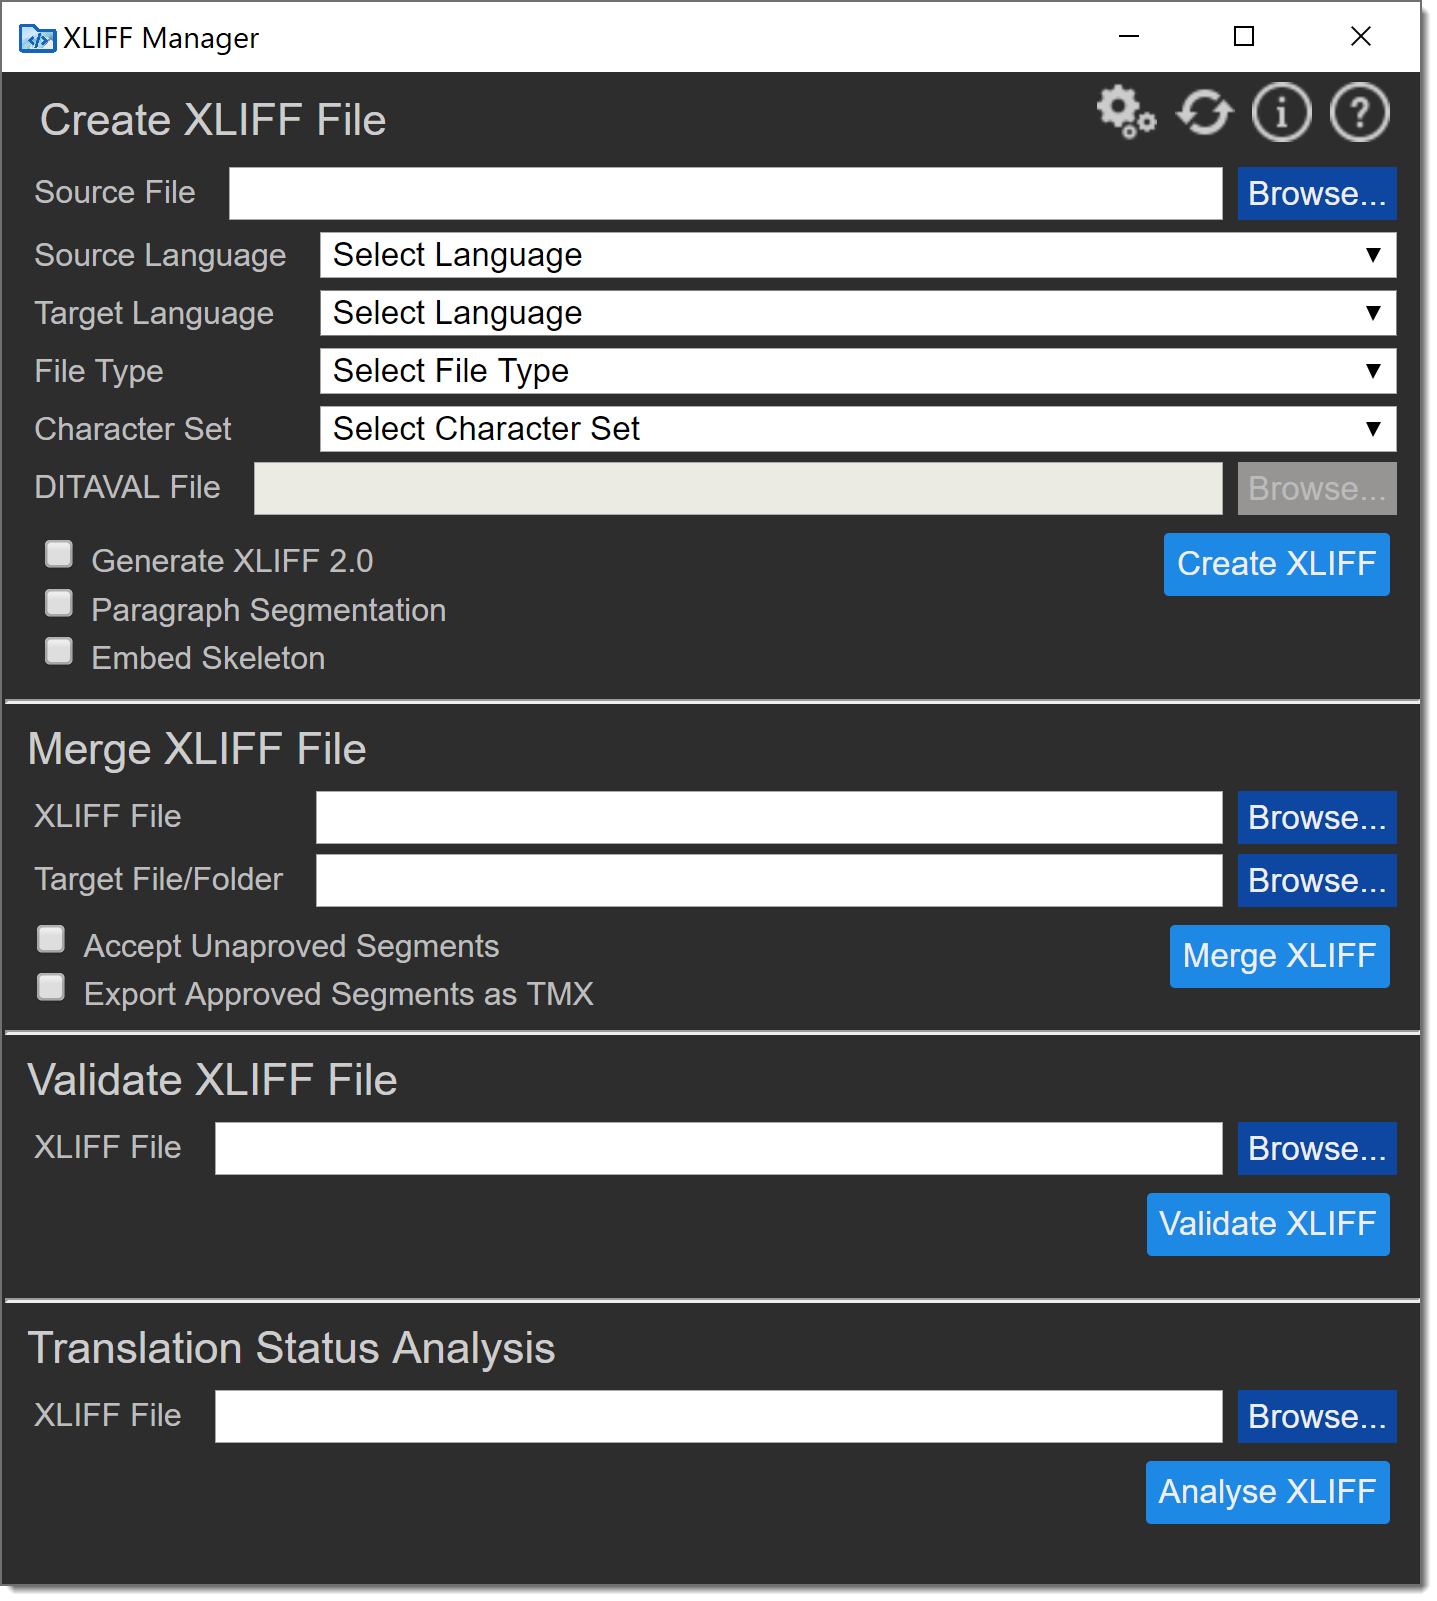
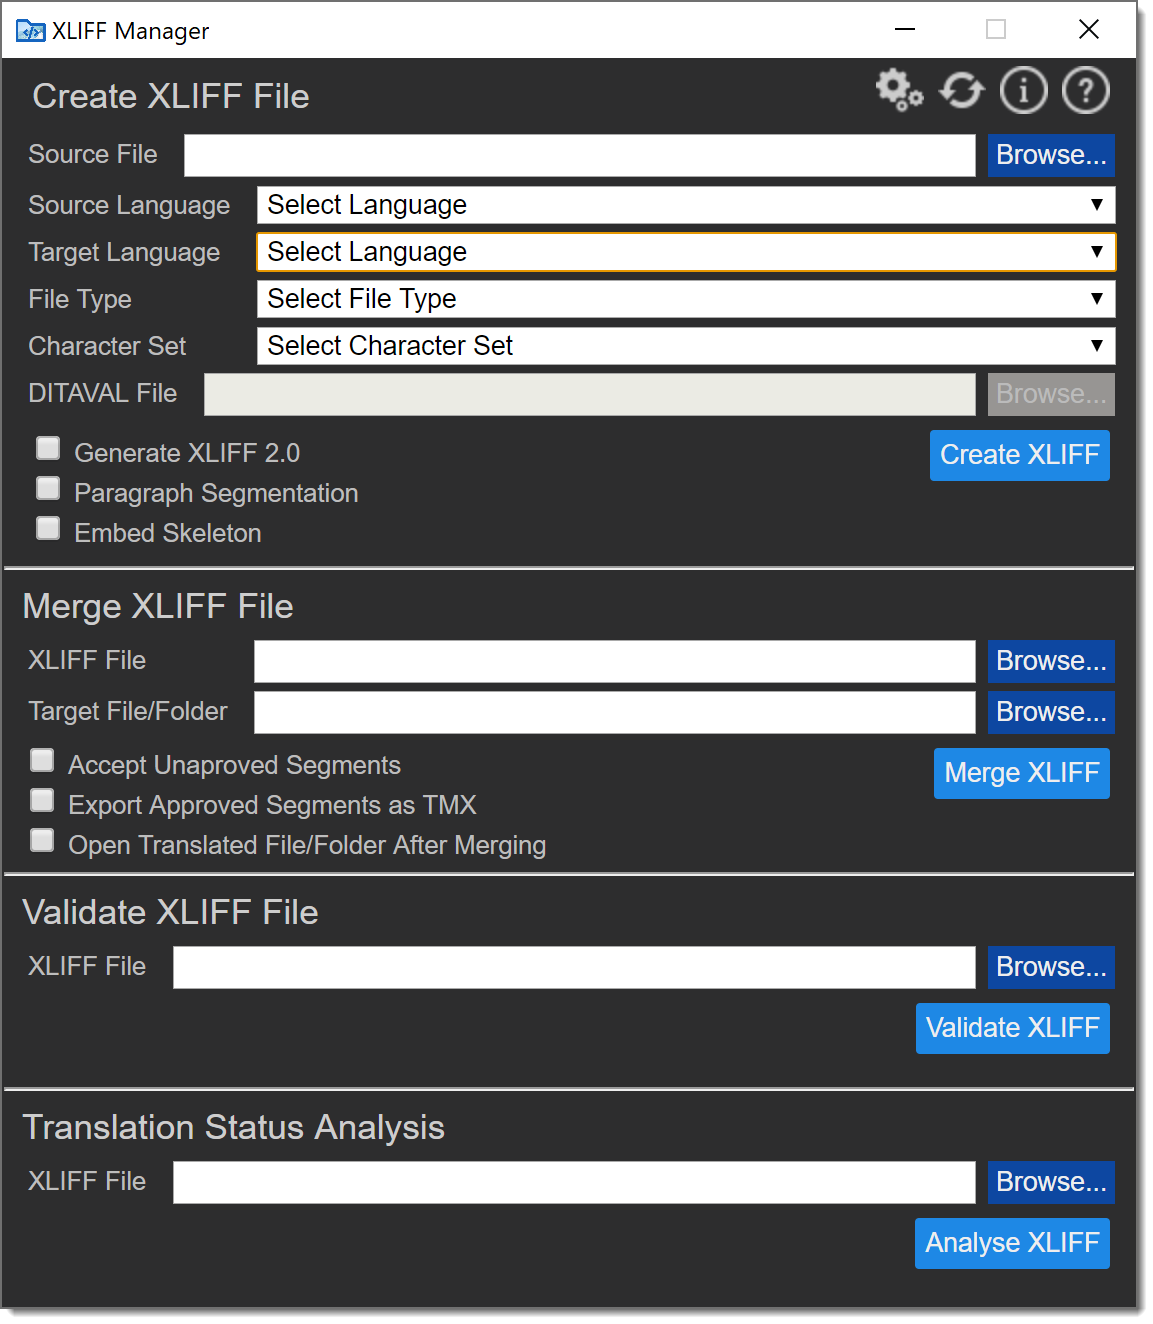
Option to open translated files

Changed region(s): [[0.0, 0.0, 0.9991, 1.0], [0.0, 0.0, 0.1873, 0.0619]]

diff --git a/main.js b/main.js
@@ -8,9 +8,9 @@
  *
  * Contributors:
  *     Maxprograms - initial API and implementation
- *******************************************************************************/ 
-const {ipcRenderer, shell} = require('electron');
-const {dialog} = require('electron').remote;
+ *******************************************************************************/
+const { ipcRenderer, shell } = require('electron');
+const { dialog } = require('electron').remote;
 
 document.getElementById('browseSource').addEventListener('click', () => {
     ipcRenderer.send('select-source-file');
@@ -27,25 +27,25 @@ document.getElementById('browseTarget').addEventListener('click', () => {
 document.getElementById('createButton').addEventListener('click', () => {
     var sourceFile = document.getElementById('sourceFile').value;
     if (!sourceFile) {
-        dialog.showErrorBox('Attention','Select source file');
+        dialog.showErrorBox('Attention', 'Select source file');
         return;
     }
     var sourceLang = document.getElementById('sourceSelect').value;
     if (sourceLang === 'none') {
-        dialog.showErrorBox('Attention','Select source language');
+        dialog.showErrorBox('Attention', 'Select source language');
         return;
     }
     var fileType = document.getElementById('typeSelect').value;
     if (fileType === 'none') {
-        dialog.showErrorBox('Attention','Select file type');
+        dialog.showErrorBox('Attention', 'Select file type');
         return;
     }
     var charset = document.getElementById('charsetSelect').value;
     if (charset === 'none') {
-        dialog.showErrorBox('Attention','Select character set');
+        dialog.showErrorBox('Attention', 'Select character set');
         return;
     }
-    var args = {command: 'convert', file: sourceFile, srcLang: sourceLang, type: fileType, enc: charset};
+    var args = { command: 'convert', file: sourceFile, srcLang: sourceLang, type: fileType, enc: charset };
     // check optional parameters
     var targetLang = document.getElementById('targetSelect').value;
     if (targetLang !== 'none') {
@@ -58,15 +58,15 @@ document.getElementById('createButton').addEventListener('click', () => {
         }
     }
     var is20 = document.getElementById('is20').checked;
-    if (is20 ) {
+    if (is20) {
         args.is20 = true;
     }
     var isParagraph = document.getElementById('isParagraph').checked;
-    if (isParagraph ) {
+    if (isParagraph) {
         args.paragraph = true;
     }
     var isEmbed = document.getElementById('isEmbed').checked;
-    if (isEmbed ) {
+    if (isEmbed) {
         args.embed = true;
     }
     ipcRenderer.send('convert', args);
@@ -79,10 +79,10 @@ document.getElementById('browseXLIFFValidation').addEventListener('click', () =>
 document.getElementById('validateButton').addEventListener('click', () => {
     var xliffFile = document.getElementById('xliffFileValidation').value;
     if (!xliffFile) {
-        dialog.showErrorBox('Attention','Select XLIFF file');
+        dialog.showErrorBox('Attention', 'Select XLIFF file');
         return;
     }
-    var args = {command: 'validateXliff', file: xliffFile};
+    var args = { command: 'validateXliff', file: xliffFile };
     ipcRenderer.send('validate', args);
 });
 
@@ -93,10 +93,10 @@ document.getElementById('browseXLIFFAnalysis').addEventListener('click', () => {
 document.getElementById('analyseButton').addEventListener('click', () => {
     var xliffFile = document.getElementById('xliffFileAnalysis').value;
     if (!xliffFile) {
-        dialog.showErrorBox('Attention','Select XLIFF file');
+        dialog.showErrorBox('Attention', 'Select XLIFF file');
         return;
     }
-    var args = {command: 'analyseXliff', file: xliffFile};
+    var args = { command: 'analyseXliff', file: xliffFile };
     ipcRenderer.send('analyse', args);
 });
 
@@ -104,7 +104,7 @@ ipcRenderer.send('get-languages');
 ipcRenderer.send('get-types');
 ipcRenderer.send('get-charsets');
 
-ipcRenderer.on('add-source-file', (event,arg) => {
+ipcRenderer.on('add-source-file', (event, arg) => {
     document.getElementById('sourceFile').value = arg.file;
     var type = arg.type;
     if (type !== 'Unknown') {
@@ -121,56 +121,56 @@ ipcRenderer.on('add-source-file', (event,arg) => {
     }
 });
 
-ipcRenderer.on('add-xliff-file', (event,arg) => {
-   document.getElementById('xliffFile').value = arg;
+ipcRenderer.on('add-xliff-file', (event, arg) => {
+    document.getElementById('xliffFile').value = arg;
 });
 
-ipcRenderer.on('add-xliff-validation', (event,arg) => {
+ipcRenderer.on('add-xliff-validation', (event, arg) => {
     document.getElementById('xliffFileValidation').value = arg;
 });
 
-ipcRenderer.on('add-xliff-analysis', (event,arg) => {
+ipcRenderer.on('add-xliff-analysis', (event, arg) => {
     document.getElementById('xliffFileAnalysis').value = arg;
 });
 
-ipcRenderer.on('add-target-file', (event,arg) => {
+ipcRenderer.on('add-target-file', (event, arg) => {
     document.getElementById('targetFile').value = arg;
 });
 
-ipcRenderer.on('languages-received', (event,arg) => {
-   var array = arg.languages;
-   var options = '<option value="none">Select Language</option>';
-   for (let i=0 ; i<array.length ; i++) {
-       var lang = array[i];
-       options = options + '<option value="' + lang.code + '">' + lang.description + '</option>';
-   }
-   document.getElementById('sourceSelect').innerHTML = options;
-   document.getElementById('sourceSelect').value = arg.srcLang;
-   document.getElementById('targetSelect').innerHTML = options;
-   document.getElementById('targetSelect').value = arg.tgtLang;
+ipcRenderer.on('languages-received', (event, arg) => {
+    var array = arg.languages;
+    var options = '<option value="none">Select Language</option>';
+    for (let i = 0; i < array.length; i++) {
+        var lang = array[i];
+        options = options + '<option value="' + lang.code + '">' + lang.description + '</option>';
+    }
+    document.getElementById('sourceSelect').innerHTML = options;
+    document.getElementById('sourceSelect').value = arg.srcLang;
+    document.getElementById('targetSelect').innerHTML = options;
+    document.getElementById('targetSelect').value = arg.tgtLang;
 });
 
-ipcRenderer.on('charsets-received', (event,arg) => {
-    var array =arg.charsets;
+ipcRenderer.on('charsets-received', (event, arg) => {
+    var array = arg.charsets;
     var options = '<option value="none">Select Character Set</option>';
-    for (let i=0 ; i<array.length ; i++) {
+    for (let i = 0; i < array.length; i++) {
         var charset = array[i];
         options = options + '<option value="' + charset.code + '">' + charset.description + '</option>';
     }
     document.getElementById('charsetSelect').innerHTML = options;
- });
- 
- ipcRenderer.on('types-received', (event,arg) => {
-    var array =arg.types;
+});
+
+ipcRenderer.on('types-received', (event, arg) => {
+    var array = arg.types;
     var options = '<option value="none">Select File Type</option>';
-    for (let i=0 ; i<array.length ; i++) {
+    for (let i = 0; i < array.length; i++) {
         var type = array[i];
         options = options + '<option value="' + type.type + '">' + type.description + '</option>';
     }
     document.getElementById('typeSelect').innerHTML = options;
- });
- 
-document.getElementById('typeSelect').addEventListener('change', ()=>{
+});
+
+document.getElementById('typeSelect').addEventListener('change', () => {
     if ('DITA' === document.getElementById('typeSelect').value) {
         enableDitaVal();
     } else {
@@ -178,75 +178,87 @@ document.getElementById('typeSelect').addEventListener('change', ()=>{
     }
 });
 
-ipcRenderer.on('process-created', (event, arg) => {
+ipcRenderer.on('conversion-started', (event, arg) => {
     document.getElementById('process').innerHTML = '<img src="img/working.gif"/>';
-}); 
+});
 
 ipcRenderer.on('validation-started', (event, arg) => {
     document.getElementById('validation').innerHTML = '<img src="img/working.gif"/>';
-}); 
-
-ipcRenderer.on('validation-completed', (event, arg) => {
-    document.getElementById('validation').innerHTML = '';
-}); 
+});
 
 ipcRenderer.on('analysis-started', (event, arg) => {
     document.getElementById('analysis').innerHTML = '<img src="img/working.gif"/>';
-}); 
+});
 
 ipcRenderer.on('analysis-completed', (event, arg) => {
     document.getElementById('analysis').innerHTML = '';
-    dialog.showMessageBox({type:'info', title:'Success', message: 'Analysis completed'});
-    shell.openItem(document.getElementById('xliffFileAnalysis').value + '.log.html');
-}); 
-
-ipcRenderer.on('validation-result', (event, arg) => {
-    if (arg.valid) {
-        dialog.showMessageBox({type:'info', message: arg.comment});
+    if (arg.result === 'Success') {
+        dialog.showMessageBox({ type: 'info', title: 'Success', message: 'Analysis completed' });
+        shell.openItem(document.getElementById('xliffFileAnalysis').value + '.log.html');
     } else {
-        dialog.showMessageBox({type:'error', message: arg.reason});
+        dialog.showErrorBox('Error', arg.reason);
     }
 });
 
-ipcRenderer.on('process-completed', (event, arg) => {
+ipcRenderer.on('validation-result', (event, arg) => {
+    document.getElementById('validation').innerHTML = '';
+    if (arg.valid) {
+        dialog.showMessageBox({ type: 'info', message: arg.comment });
+    } else {
+        dialog.showMessageBox({ type: 'error', message: arg.reason });
+    }
+});
+
+ipcRenderer.on('conversion-completed', (event, arg) => {
     document.getElementById('process').innerHTML = '';
-    dialog.showMessageBox({type:'info', title:'Success', message: 'XLIFF file created'});
-}); 
+    if (arg.result === 'Success') {
+        dialog.showMessageBox({ type: 'info', title: 'Success', message: 'XLIFF file created' });
+    } else {
+        dialog.showErrorBox('Error', arg.reason);
+    }
+});
 
 ipcRenderer.on('merge-created', (event, arg) => {
     document.getElementById('merge').innerHTML = '<img src="img/working.gif"/>';
-}); 
+});
 
 ipcRenderer.on('merge-completed', (event, arg) => {
     document.getElementById('merge').innerHTML = '';
-    dialog.showMessageBox({type:'info', title:'Success',message: 'XLIFF file merged'});
-}); 
+    if (arg.result === 'Success') {
+        dialog.showMessageBox({ type: 'info', title: 'Success', message: 'XLIFF file merged' });
+        if (document.getElementById('openTranslated').checked) {
+            shell.openItem(document.getElementById('targetFile').value);
+        }
+    } else {
+        dialog.showErrorBox('Error', arg.reason);
+    }
+});
 
 ipcRenderer.on('show-error', (event, arg) => {
     document.getElementById('process').innerHTML = '';
     document.getElementById('merge').innerHTML = '';
     document.getElementById('validation').innerHTML = '';
-    dialog.showMessageBox({type:'error', message: arg});
-}); 
+    dialog.showMessageBox({ type: 'error', message: arg });
+});
 
 document.getElementById('mergeButton').addEventListener('click', () => {
     var xliffFile = document.getElementById('xliffFile').value;
     if (!xliffFile) {
-        dialog.showErrorBox('Attention','Select XLIFF file');
+        dialog.showErrorBox('Attention', 'Select XLIFF file');
         return;
     }
     var targetFile = document.getElementById('targetFile').value;
     if (!targetFile) {
-        dialog.showErrorBox('Attention','Select target file/folder');
+        dialog.showErrorBox('Attention', 'Select target file/folder');
         return;
     }
-    args = {command: 'merge', xliff: xliffFile, target: targetFile};
+    args = { command: 'merge', xliff: xliffFile, target: targetFile };
     var unapproved = document.getElementById('unapproved').checked;
-    if (unapproved ) {
+    if (unapproved) {
         args.unapproved = true;
     }
     var exportTmx = document.getElementById('exportTmx').checked;
-    if (exportTmx ) {
+    if (exportTmx) {
         args.exportTmx = true;
     }
     ipcRenderer.send('merge', args);

diff --git a/main.html b/main.html
@@ -90,6 +90,8 @@
                         <input id="unapproved" type="checkbox"><label for="unapproved">Accept Unaproved Segments</label>
                         <br/>
                         <input id="exportTmx" type="checkbox"><label for="exportTmx">Export Approved Segments as TMX</label>
+                        <br/>
+                        <input id="openTranslated" type="checkbox"><label for="openTranslated">Open Translated File/Folder After Merging</label>
                     </td>
                     <td class="panel" style="height:40px;">
                         <p id="merge"></p>
